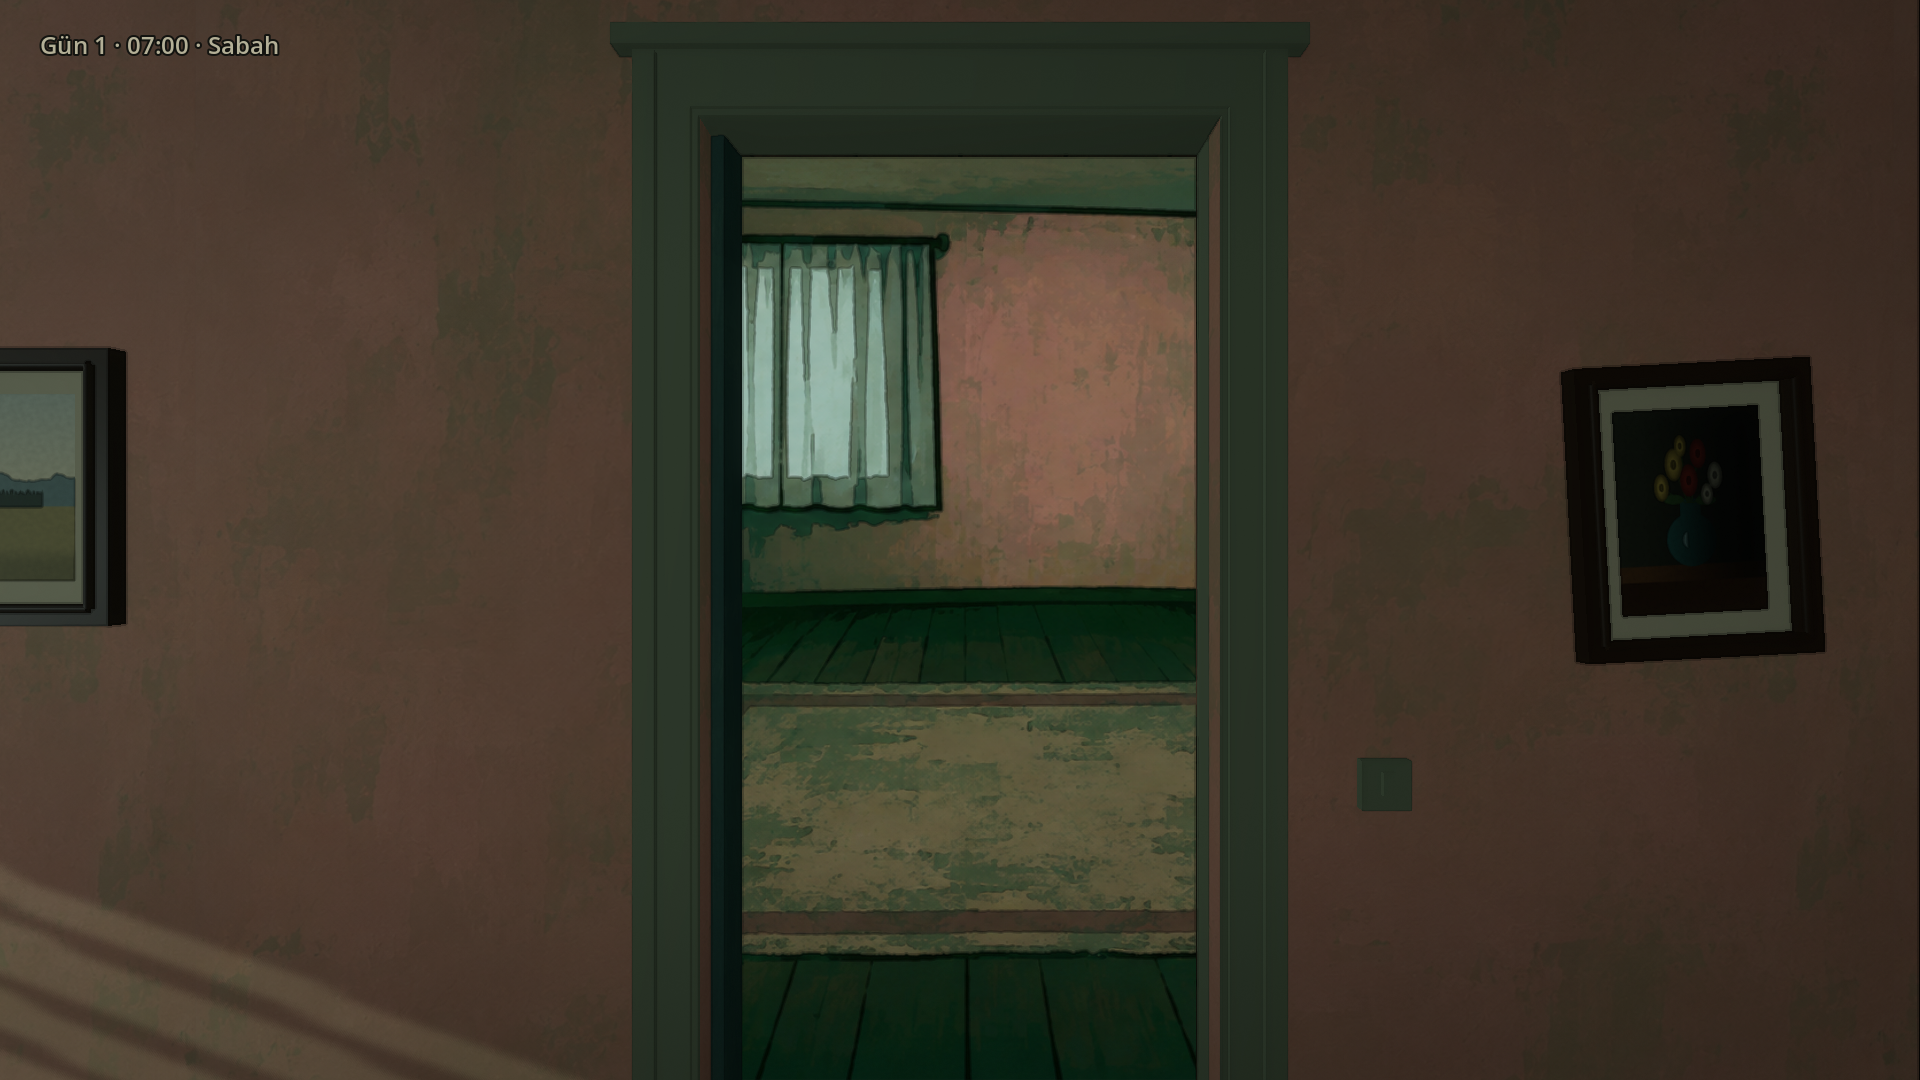
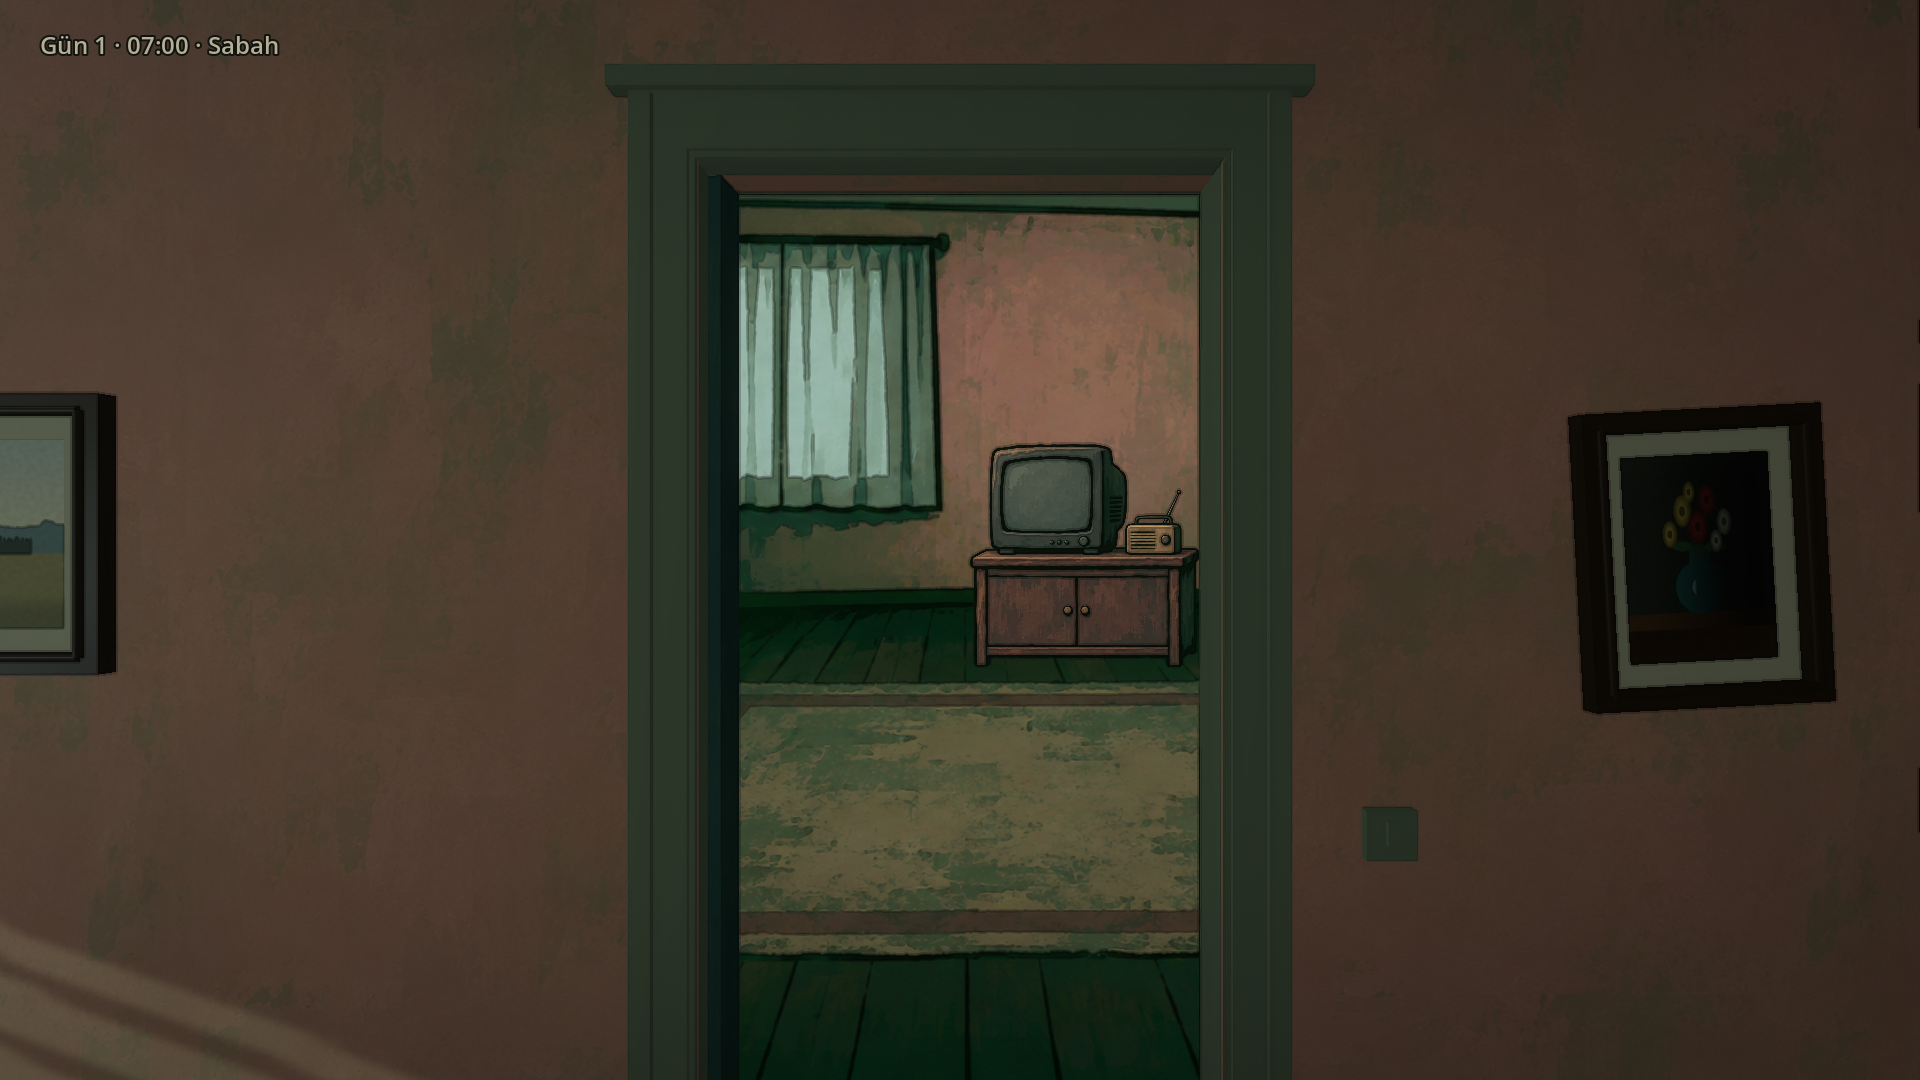
Release verified door composition and integrated stair fix

diff --git a/docs/qa/DoorComposition.md b/docs/qa/DoorComposition.md
@@ -1,0 +1,40 @@
+# Kapı/oda ortak kompozisyonu ve merdiven — 0.1.12
+
+Bu teslim I04 prototipindeki somut eksiği kapatır: ayrı eşya ve NPC katmanları yalnız tam ekranda belirmemeli. Aktif sürüme alınmadan önce aynı görsel kaynağı ve tam regresyon doğrulanır. Genel oyun veya karakter sanatı tamamlandı iddiası değildir.
+
+## Gerçek kaynaklar ve sorumluluk
+
+`scripts/art/room_world.gd` arka plan, RoomProps ve karakter katmanını tek yerde kurar. RoomVisuals'ın gün/saat/güç seçimi; Settings dünya parlaklığı; GameState.get_room_occupants üzerinden gerçek konum/iş/izolasyon/sakin statüsü kullanılır. Dünya çizimi kampanya, seed, enfeksiyon, kaynak, saat veya kayıt değiştirmez. NPC görsel fabrikası da aynı kaynaktadır; RoomView'ın eski özel yardımcısı bu fabrikaya yönlendirir.
+
+`scripts/ui/room_view.gd` içindeki World, bu bileşenin bir örneğidir. Başlık, kişi adları, konuşma ve eylem düğmeleri bunun dışında kalır. Eski `_background`, `_prop_layer` ve `_character_layer` alanları ortak bileşenin düğümlerine işaret ettiği için mevcut test/sahne bağımlılıkları korunur.
+
+`scripts/house/room_door.gd` fiziksel RoomThreshold quad'ına RoomPreviewViewport dokusunu verir. Bu SubViewport yalnız2D çizer, ayrı World2D kullanır, girdi almaz; altında ikinci RoomWorld örneği vardır. Kaynaklar ortak olduğu için iki görünümde aynı eşya/karakter/sıra/renk kullanılır; ikinci UI veya CampaignDirector oluşturulmaz. Viewport yalnız açılma/kapanmada güncellenir; oda tam ekran açıkken veya kapı kapalıyken her kare tekrar çizilmez.
+
+`shaders/door_room_preview.gdshader` SCREEN_UV ile kompozisyonu kapı aralığından gösterir. Küçük kartı esnetme veya ikinci siyah fade yoktur. Kamera kısa süre fiziksel kapıya yaklaşır, göz yüksekliği korunur; RoomView devrinde eski koridor transformuna geri alınır. Escape animasyonu iptal eder; camera_motion ayarı kapalıysa yalnız kapı kanadı hareket eder. SettingsView yeni ayarı otomatik kurar; EN/TR etiketler strings.csv'de. Kalıcılık mevcut settings.cfg'dedir, save şeması değişmez.
+
+İzlenen sinyaller: zaman, sakinler, tercih/çözünürlük ve önizleme için doğrudan PowerIncident.power_changed. Değişim sırasında açık aralıktaki görüntü güncellenir; tam oda ekranı kendi dinleyicisini kullanır. Kapanırken o anki model yeniden alınır. Önizleme UI'dan eylem çalıştırmaz veya ikinci tüketim/iş ödülü üretmez.
+
+## Merdiven entegrasyonu
+
+Claude'un151e84e teslimi ayrı c9f6660 cherry-pick'iyle alındı. HouseBuilder'da eski eğik BoxShape köşeleri ayak/sahanlığa taşıyordu; dikey uçlu ConvexPolygonShape3D prizması yalnız merdiven izinde kalır. Görsel merdiven, oda kimlikleri ve plan değişmez. Claude'un stairs_test'i gerçek CharacterBody'yi üç şerit/iki yön, çıkış, dönüş ve çapraz girişte60/30Hz yürütür.
+
+Bu fizik yürüyüşleri yaklaşık210s gerçek zaman ister. Test koşucusunda yalnız stairs_test sınırı en az300s yapıldı; simülasyon hızlandırılmadı, denetimler azaltılmadı. Diğer paketlerin varsayılan90s sınırı korunur. Run-Tests listesi bu paketle30çekirdek+WASAPI=31olur.
+
+## Doğrulama kanıtı
+
+İlk ortak kompozisyon seçili testleri: kapı, oda ışığı, etkileşim/sunum ve ses geçti. Daha sonra30paket geniş regresyon geçti. Native GPU son50kontrol PASS,stderrboş;5görüntü: boş oda aralığı, yaklaşma, tam oda ve Elena'lı oda aralığı/tam ekran. Ortak dünya ilk kurulumda anchors/size uyarısı üretiyordu; yalnız önizleme kökü sabit üst-sol ankora alınarak uyarı giderildi. Native görüntüde artık TV/radyo eşyası ve Elena açılan kapının arkasında da bulunuyor. Gece/kesinti dokuları, görevli kişinin yatak odasında görünmemesi, izolasyon, kovulma ve çizimin kampanyayı değiştirmemesi testte doğrulandı.
+
+Kamera tercihi testinde dilin istemeden değişmemesi için test TranslationServer'ı tek başına değil mevcut kalıcı Settings dilini kullanır ve bitişte önceki dilini geri yükler. Bu test verisidir; normal oyuncu dosyalarına yazılmaz.
+
+Son birleşik31paket kapısı `runtime/door-stairs-release012-tests.log` içinde yürür; sonuç henüz burada tamamlandı sayılmaz. Kaynak kodu bu koşudan önce donduruldu. Geçtiğinde gerçek toplam ve süreç sonucu ayrıca kaydedilir. Son native kareler aynı renderer kodundan, görünmez merdiven çarpışması entegrasyonundan önce alındı; görünür geometri değişmedi. FPS hedefi ölçülmedi; 50native denetim bir performans benchmarkı değildir.
+
+## Kurulum, deneme ve sınırlar
+
+Yeni editör kurulumu gerekmez: Godot4.7.2/Forward+ ve mevcut proje. Normal E etkileşimi kapıyı açar; Escape açılırken iptal veya oda içindeyken dönüş. Ayarlardaki Kapıda kamera hareketi0/1 yaklaşmayı kapatır/açar. Aynı kampanya ve mevcut v6 kayıtları korunur. Testler yalnız izolasyonlu Run-Tests üzerinden; native kontrol E: altındaki açık override.cfg'li ayrı QA projesinde çalışır.
+
+Görsel doğrulama kadrajı1920x1080; genel ayarlar720p/1080p/1440p yerleşimleri test edilir. Dar/ters kapılar ve farklı FOV için daha geniş elle oynama sürer; en az mevcut gerçek kapı/tekrar/iptal/işgaller doğrulandı. Yeni NPC çizimleri, yeni pozlar, üst kat oran revizyonu, kapı deliği ve Gün5 bu teslimde yok. Sonraki bağımlılık I07 sanat adayları ve I05 kapı deliği; kullanıcı tarafından seçilmemiş karakter stilini varmış saymayız.
+
+## Son teslim doğrulaması
+31 paket WASAPI PASS: runtime/door-stairs-release012-final.log. İlk birleşik koşuda kendi eklediğimiz üst sehpa sağ merdiven şeridini engelliyordu; x9.90 yerine x5.28 konumuna taşındı, gerçek yürüyüş testleri değiştirilmedi; ikinci tam koşu geçti. Sonrasında yalnız önizlemede çift parlaklık uygulanması düzeltildi; güncel son kod settings/door/room_lighting/presentation dört paketi ve WASAPI testini geçti (door-final-brightness-tests.log). Son kaynakla native Forward+ 54 kontrol PASS, stderr boş (door012-final-gpu.stdout.log). Beş PNG aynı native koşudan yenilendi. Tam31 koşu son dar parlaklık düzeltmesinden önce, dört paket ve native test sonrasındadır.
+
+Sahibin son geri bildirimi: ışık/atmosfer hâlâ yetersiz. Bu sürüm genel sanat kabulü değildir. Sabah üst koridor gerçek görüntüsü düz ve cansız; referans atmosferine ulaşıldığı iddia edilmez. Sonraki görsel iş kaynak farkı değil aktif sürümden aynı kamera karşılaştırmasıyla doğrulanmalı.

diff --git a/docs/ChangeLog.md b/docs/ChangeLog.md
@@ -1,5 +1,11 @@
 # Değişiklik günlüğü
 
+## 0.1.12-dev.20261117.1
+- Fiziksel kapı aralığında ortak oda kompozisyonu: arka plan, eşyalar ve gerçek odadaki NPC'ler birlikte görünür.
+- Siyah geçiş kapakları kaldırıldı; kısa, göz hizasını koruyan yaklaşma, Escape ile iptal ve ayarlardan kamera hareketini kapatma.
+- Claude'un merdiven korkuluğu çarpışma düzeltmesi: zemine taşan görünmez kutu köşeleri yerine merdiven sınırında kalan prizma.
+- Yeni karakter stili, üst kat plan değişikliği ve kapı deliği bu teslimde yok. QA: DoorComposition.md.
+
 ## 0.1.11-dev.20261117.1
 - Koridorlarda gündüz elektrikli lambalar kapalı; pencere aydınlığı ve sabah/gece geçişi belirginleştirildi.
 - Gece tavan aydınlığı yerine üç yerel abajur; üst kata iki küçük lambalı sehpa eklendi.
